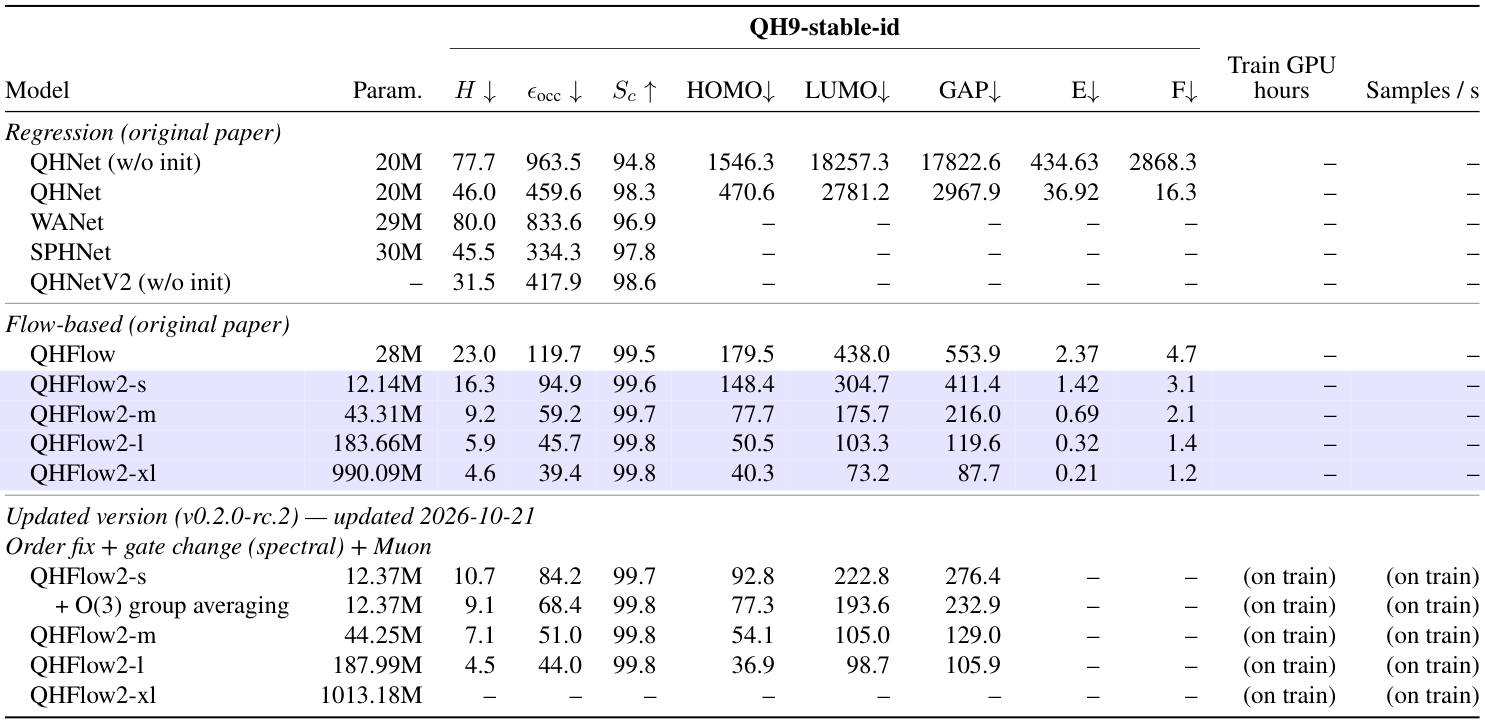
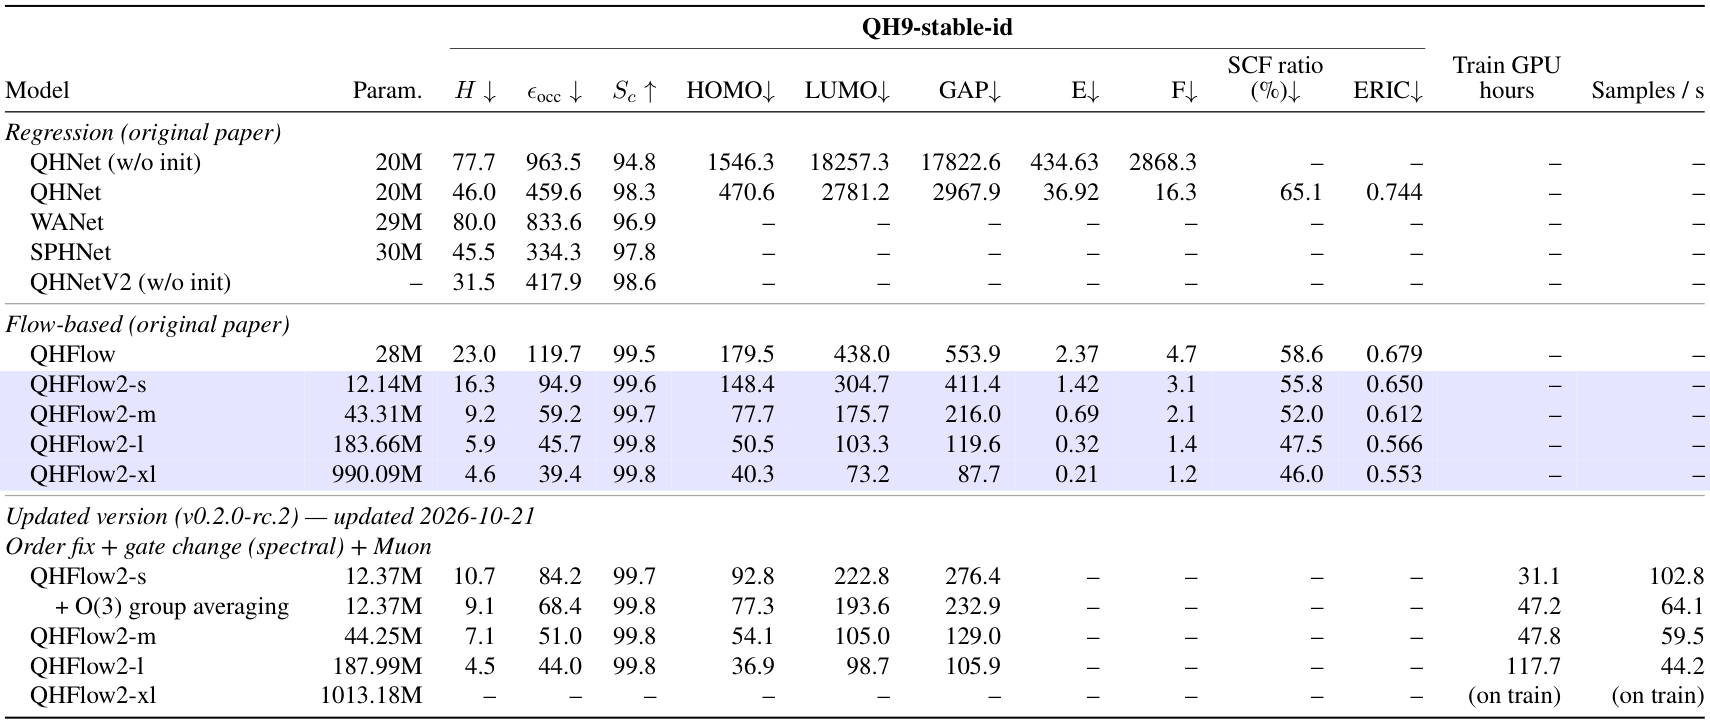
Add traceable SCF ratio and ERIC benchmarks; correct XL training markers

diff --git a/src/reproduction/scf_metrics.py b/src/reproduction/scf_metrics.py
@@ -1,0 +1,94 @@
+"""Recompute SCF cycle ratios and count-based ERIC from traceable paired records.
+
+This aggregates existing results; it does not launch SCF or infer wall-time speedup.
+"""
+import argparse
+from collections import defaultdict
+import csv
+import hashlib
+import json
+from numbers import Integral
+from pathlib import Path
+
+
+def aggregate_cycles(model_cycles, minao_cycles, initialization_cycles=1):
+    """Use a ratio of sums for Figure 4 and a mean of paired ratios for ERIC.
+
+    The +1 convention accounts for an initial Hamiltonian/Fock build. It is
+    explicit, not a measurement of Fock builds or model inference time.
+    """
+    model, minao = list(model_cycles), list(minao_cycles)
+    if not model or len(model) != len(minao):
+        raise ValueError("SCF counts must be nonempty and paired")
+    if any(isinstance(n, bool) or not isinstance(n, Integral) or n < 0
+           for n in [*model, *minao, initialization_cycles]):
+        raise ValueError("SCF counts and initialization overhead must be nonnegative integers")
+    if any(n == 0 for n in minao):
+        raise ValueError("Every paired MinAO cycle count must be positive")
+    ratio = 100 * sum(model) / sum(minao)
+    return dict(
+        count=len(model), model_cycles_total=sum(model), minao_cycles_total=sum(minao),
+        cycle_ratio_percent=ratio, cycle_reduction_percent=100 - ratio,
+        eric=sum((n + initialization_cycles) / b for n, b in zip(model, minao)) / len(model),
+        initialization_cycles=initialization_cycles,
+    )
+
+
+def summarize_recorded(cohort_path, cycles_path):
+    """Require every model to contain exactly the explicit, fully converged cohort."""
+    cohort_path, cycles_path = Path(cohort_path), Path(cycles_path)
+    with cohort_path.open() as f:
+        cohort = list(csv.DictReader(f))
+    identities = {(int(r["prediction_index"]), int(r["dataset_index"])) for r in cohort}
+    if not identities or len(identities) != len(cohort):
+        raise ValueError("Empty or duplicate molecule cohort")
+    for column in ("prediction_index", "dataset_index"):
+        if len({int(r[column]) for r in cohort}) != len(cohort):
+            raise ValueError(f"Duplicate {column}")
+    groups = defaultdict(list)
+    with cycles_path.open() as f:
+        for row in csv.DictReader(f):
+            groups[row["model"]].append(row)
+    if not groups:
+        raise ValueError("No SCF records")
+    models, baseline = {}, {}
+    for label, rows in sorted(groups.items()):
+        observed = {(int(r["prediction_index"]), int(r["dataset_index"])) for r in rows}
+        if len(rows) != len(identities) or observed != identities:
+            raise ValueError(f"{label}: missing, duplicate or mismatched molecules")
+        if any(r[k] != "True" for r in rows for k in ("pred_init_converged", "scratch_converged")):
+            raise ValueError(f"{label}: nonconverged pair; headline metrics withheld")
+        for row in rows:
+            key = int(row["dataset_index"])
+            n = int(row["scratch_cycles"])
+            if key in baseline and baseline[key] != n:
+                raise ValueError(f"{label}: inconsistent shared MinAO baseline")
+            baseline[key] = n
+        models[label] = aggregate_cycles(
+            [int(r["pred_init_cycles"]) for r in rows],
+            [int(r["scratch_cycles"]) for r in rows],
+        )
+    return dict(
+        schema=1, cohort_count=len(identities),
+        sources={p.name: hashlib.sha256(p.read_bytes()).hexdigest() for p in (cohort_path, cycles_path)},
+        cycle_ratio_definition="100 * sum(N_model) / sum(N_MINAO); lower is better",
+        cycle_reduction_definition="100 - cycle_ratio_percent; higher is better",
+        eric_definition="mean((N_model + 1) / N_MINAO); lower is better",
+        eric_scope="Post-hoc count-based metric with one initial Hamiltonian build; no inference timing or directly measured Fock-build counts",
+        provenance_note="Cohort attribution and solver settings are recorded separately in provenance.json",
+        models=models,
+    )
+
+
+def main():
+    parser = argparse.ArgumentParser(description=__doc__)
+    parser.add_argument("--cohort", type=Path, required=True)
+    parser.add_argument("--cycles", type=Path, required=True)
+    parser.add_argument("--output", type=Path, required=True)
+    args = parser.parse_args()
+    result = summarize_recorded(args.cohort, args.cycles)
+    args.output.write_text(json.dumps(result, indent=2, allow_nan=False) + "\n")
+
+
+if __name__ == "__main__":
+    main()

diff --git a/tests/test_reproduction.py b/tests/test_reproduction.py
@@ -14,6 +14,7 @@ from common.metric import cal_orbital_and_energies
 from experiment.train_release import evaluation_indices
 from reproduction.physics import build_mf, one_shot, orbitals, solve_scf
 from reproduction.qh9 import evaluate, prepare, read_cohort, sha, summarize, write_json
+from reproduction.scf_metrics import aggregate_cycles, summarize_recorded
 
 ROOT = Path(__file__).resolve().parents[1]
 
@@ -46,6 +47,44 @@ def test_recovered_cohort_pairs_all_models():
     assert len(cycles) == 1800
     for model in {r["model"] for r in cycles}:
         assert {int(r["dataset_index"]) for r in cycles if r["model"] == model} == {r["dataset_index"] for r in rows}
+
+
+def test_cycle_ratio_and_eric_have_distinct_aggregation_and_overhead():
+    # Unequal denominators distinguish a ratio of sums from a mean of ratios.
+    m = aggregate_cycles([2, 8], [4, 16])
+    assert m["cycle_ratio_percent"] == 50
+    assert m["cycle_reduction_percent"] == 50
+    assert m["eric"] == pytest.approx((3 / 4 + 9 / 16) / 2)
+    rows = [dict(dataset_index=i, status="ok", solves={
+        "minao": dict(converged=True, cycles=b),
+        "predicted": dict(converged=True, cycles=n),
+        "dataset_hamiltonian": dict(converged=True, cycles=1),
+    }) for i, (n, b) in enumerate(zip([2, 8], [4, 16]))]
+    assert summarize(rows, "scf")["eric"] == m["eric"]
+    rows[0]["solves"]["predicted"]["converged"] = False
+    assert "eric" not in summarize(rows, "scf")
+
+
+@pytest.mark.parametrize("model,baseline", [([], []), ([1], [0]), ([1], [2, 3]), ([-1], [2]), ([1.5], [2])])
+def test_cycle_metrics_reject_invalid_pairs(model, baseline):
+    with pytest.raises(ValueError):
+        aggregate_cycles(model, baseline)
+
+
+def test_recorded_scf_summary_matches_source_and_rejects_missing_pairs(tmp_path):
+    cohort = ROOT / "reproduce/scf/recorded-300.csv"
+    cycles = ROOT / "reproduce/scf/recorded-300-cycles.csv"
+    summary = summarize_recorded(cohort, cycles)
+    assert summary == json.loads((ROOT / "reproduce/scf/recorded-300-summary.json").read_text())
+    evidence = json.loads((ROOT / "reproduce/scf/provenance.json").read_text())["evidence"]
+    assert len(summary["models"]) == 6
+    for label, value in summary["models"].items():
+        assert value["count"] == 300
+        assert value["cycle_reduction_percent"] == pytest.approx(evidence[label]["summary"]["cycle_reduction_pct"])
+    incomplete = tmp_path / "incomplete.csv"
+    incomplete.write_text("\n".join(cycles.read_text().splitlines()[:-1]) + "\n")
+    with pytest.raises(ValueError, match="missing, duplicate or mismatched"):
+        summarize_recorded(cohort, incomplete)
 
 
 @pytest.mark.parametrize("mode", ["legacy_fixed", "legacy_adaptive"])

diff --git a/src/reproduction/qh9.py b/src/reproduction/qh9.py
@@ -16,6 +16,7 @@ import numpy as np
 import yaml
 
 from .physics import build_mf, host, one_shot, orbitals, solve_scf
+from .scf_metrics import aggregate_cycles
 
 
 def sha(path):
@@ -198,10 +199,15 @@ def summarize(records, mode):
         summary.update(paired_converged=len(paired), nonconverged=[r["dataset_index"] for r in good if r not in paired])
         # No hidden removal of difficult molecules from a publication number.
         if len(paired) == len(records) and paired:
-            baseline = sum(r["solves"]["minao"]["cycles"] for r in paired)
-            if baseline <= 0:
-                raise ValueError("MinAO cycle count must be positive")
-            summary["cycle_ratio_percent"] = {label: 100 * sum(r["solves"][label]["cycles"] for r in paired) / baseline for label in ("predicted", "dataset_hamiltonian")}
+            metrics = {label: aggregate_cycles(
+                [r["solves"][label]["cycles"] for r in paired],
+                [r["solves"]["minao"]["cycles"] for r in paired],
+                initialization_cycles=1 if label == "predicted" else 0,
+            ) for label in ("predicted", "dataset_hamiltonian")}
+            for field in ("cycle_ratio_percent", "cycle_reduction_percent"):
+                summary[field] = {label: value[field] for label, value in metrics.items()}
+            summary["eric"] = metrics["predicted"]["eric"]
+            summary["eric_definition"] = "mean((N_predicted + 1) / N_MINAO); one initial Hamiltonian build, excluding inference time"
             summary["aggregation"] = "100 * sum(model cycles) / sum(MinAO cycles); no +1 correction"
     elif len(good) == len(records) and good:
         de = np.array([r["predicted"]["energy_Ha"] - r["reference"]["energy_Ha"] for r in good])

diff --git a/reproduce/README.md b/reproduce/README.md
@@ -52,8 +52,9 @@ model definitions when loading checkpoints.
 
 ### Molecule identities and Figure 4 provenance
 
-[recorded-300.csv](scf/recorded-300.csv) gives the **recovered March 2026 SCF
-re-experiment** cohort. Every molecule was matched to the local QH9 raw shard by
+[recorded-300.csv](scf/recorded-300.csv) gives the **original-paper Figure 4
+cohort**. On 2026-10-21 the maintainer confirmed that the recovered March 2026
+SCF records use the same 300 molecules. Every molecule was matched to the local QH9 raw shard by
 atomic numbers and coordinates (all 300 uniquely matched within 2e-6 Å), and
 independently checked against the historical test split. Fields include:
 
@@ -69,16 +70,41 @@ pairs, convergence flags and final energies. Selection was NumPy `default_rng(42
 The explicit CSV is authoritative for replay; do not reinterpret file numbers
 as global dataset indices or use a different split order.
 
-**Original Figure 4 is not yet fully traced.** The original paper's
+**Molecule attribution is confirmed; solver settings are preserved explicitly.** The original paper's
 [Appendix E.4](https://arxiv.org/html/2602.16897v1#A5.SS4) specifies B3LYP/def2-SVP,
 grid 3, `conv_tol=1e-13`, GPU4PySCF and density fitting. Recovered March records
 instead specify B3LYP5, `1e-9`, with no density fitting in their source script.
-Their dates postdate the February paper. They are not relabeled as Figure 4's
-original molecules or settings. [provenance.json](scf/provenance.json) preserves
-source paths, hashes and this unresolved attribution. `paper-protocol.yaml`
+The molecule-list confirmation does not replace those recorded solver settings.
+[provenance.json](scf/provenance.json) preserves source paths, hashes and the
+maintainer's confirmation. `paper-protocol.yaml`
 encodes the documented protocol, while `recorded-protocol.yaml` replays the
 recovered experiment. The old runtime versions were not saved in those results;
 an exact numerical replay is therefore not certified.
+
+### Recompute the table's SCF columns
+
+The six original-model SCF entries use the recovered cycle records on this
+300-molecule cohort. They are separate from the full-test H/orbital/E/F metrics.
+The summary verifies unique identities, complete 300/300 pairing, convergence
+and the shared MinAO baseline; missing or nonconverged pairs cause an error.
+
+```bash
+PYTHONPATH=src python -m reproduction.scf_metrics \
+  --cohort reproduce/scf/recorded-300.csv \
+  --cycles reproduce/scf/recorded-300-cycles.csv \
+  --output /dataset/seongsu/shared-home/workspace/project/MALOQ/outputs/qhflow2-stable-table-comparison-20261021/scf-summary.json
+```
+
+This reproduces [recorded-300-summary.json](scf/recorded-300-summary.json).
+**SCF ratio (%)** is `100 × sum(N_model) / sum(N_MinAO)`; its reduction is
+`100 - ratio`. **ERIC** is the molecule-wise mean of `(N_model + 1) / N_MinAO`.
+The +1 accounts for an initial Hamiltonian/Fock build, following the
+[ERIC convention](https://arxiv.org/html/2604.21657v1#S4), and is independent of
+the number of model ODE steps. ERIC is computed post hoc from saved counts;
+the historical files did not instrument every Fock build or inference cost.
+Neither metric measures wall-time speedup. The README labels the cohort and
+recorded protocol; it does not present these added values as transcribed
+paper-table measurements. New version checkpoints need their own SCF evaluation.
 
 ### Checkpoint to traceable predictions
 
@@ -137,6 +163,8 @@ a new output directory and is reported as a separate runtime.
 - SCF compares MinAO, predicted-H and dataset-H initialization with the same solver settings.
   Cycle ratio is **100 × sum(model cycles) / sum(MinAO cycles)**. Reduction is
   100 minus that ratio; neither quantity includes an extra initial-guess cycle.
+  Predicted-H ERIC separately uses **mean((N_model + 1) / N_MinAO)** and records
+  that initial Hamiltonian build explicitly. Dataset-H is a reference, not an ML ERIC entry.
 - Energy/force evaluation extracts the original v4 algorithm without UMA,
   plotting or mutable shared caches. The default preserves its adaptive
   `1e-8` / `1e-3` overlap-eigenvalue **padding** rule and 0.03 Ha switch. Padding

diff --git a/README.md b/README.md
@@ -133,7 +133,8 @@ Updated **2026-10-21** · Updated version **[v0.2.0-rc.2](docs/releases/v0.2.0-r
 
 - **Results and units.** Original-paper metrics, including QHNetV2, reproduce the supplied paper tables. QHFlow2 parameter counts follow the [checkpoint/config audit](docs/MODEL_CONFIGS.md); updated counts are trainable parameters (XL: initialized model). Updated results use the best validation checkpoint, seed 42, all **13,084** official QH9Stable random-split test molecules and **three ODE steps**. H, occupied orbital energies, HOMO, LUMO and GAP are in μEh; Sc is in percent. Original E/F values retain their source units; updated E/F and other unavailable values are shown as dashes.
 - **Model update.** Order fix + **gate change (spectral)** + Muon at **1e-3**; norm, embedding and other unsupported parameters use AdamW at **1e-4**. Updated S/M also enable the Hamiltonian-input path. **+ O(3) group averaging** denotes a separately trained QHFlow2-O(3)-s, using shared-weight identity/inversion averaging. These results combine architecture and training changes and are not a single-change ablation.
-- **Training cost and speed.** Figures are temporarily withheld; `(on train)` is a provisional reporting label in these columns. S/O(3)-S/M/L training is complete, and the recorded measurements are retained for a later update.
+- **Training cost and speed.** Train GPU hours and Samples / s show recorded measurements for completed S/O(3)-S/M/L runs; only XL displays `(on train)`. GPU hours sum retained training segments, including validation/checkpointing within those segments, and exclude startup, queue/restart gaps, discarded attempts and final testing. Samples / s is aggregate training throughput in the final execution configuration: one GPU for S/O(3)-S/M and two GPUs for L; each O(3) molecule is counted once.
+- **SCF ratio and ERIC.** SCF ratio (%) is `100 × sum(N_model) / sum(N_MinAO)` (lower is better; MinAO = 100%). ERIC is `mean((N_model + 1) / N_MinAO)`, including one initial Hamiltonian build under the [ERIC accounting convention](https://arxiv.org/html/2604.21657v1#S4); it is not a wall-time speedup. The six available original-model entries are recomputed from the [300-molecule paired records](reproduce/scf/recorded-300-cycles.csv), on the same cohort as [original-paper Figure 4](https://arxiv.org/html/2602.16897v1#S4.F4), confirmed by the maintainer on 2026-10-21. ERIC is a new post-hoc calculation. The recovered March solver settings are retained in [provenance](reproduce/scf/provenance.json), including differences from Appendix E.4; these added columns are not transcribed paper-table values. Updated-model SCF metrics have not been evaluated and remain dashes. See the [reproducible summary](reproduce/scf/recorded-300-summary.json).
 - **Checkpoint status.** S/O(3)-S/M/L each completed 260,000 steps; their packaged weights come from validation-selected step 258,409. XL is still training, with benchmark metrics and its checkpoint pending.
 
 ### Updated checkpoints
@@ -162,10 +163,11 @@ The five release presets match the recorded final S, O(3)-S, M, L and XL trainin
 Muon starts at 1e-3 and AdamW at 1e-4; global batch size is 32.
 
 For **Relative reduction of SCF cycles on QH9**, the
-[molecule list](reproduce/scf/recorded-300.csv) links all 300 recovered March 2026
-re-experiment samples to original QH9 indices and molecular formulas. The
-[provenance note](reproduce/scf/provenance.json) distinguishes these verified records
-from Figure 4 of the original paper, whose exact source cohort remains unverified.
+[molecule list](reproduce/scf/recorded-300.csv) links the 300 original-paper Figure 4
+molecules to original QH9 indices and molecular formulas. The maintainer confirmed
+on 2026-10-21 that the recovered March 2026 records use this same molecule list.
+The [provenance note](reproduce/scf/provenance.json) records that confirmation,
+geometry matches and the recovered solver settings.
 The [paired cycle records](reproduce/scf/recorded-300-cycles.csv) cover six models.
 
 DFT evaluation records explicit functional, basis, overlap policy, grid/gradient options,

diff --git a/CHANGELOG.md b/CHANGELOG.md
@@ -11,13 +11,16 @@ source and configuration files; `model.version` selects an architecture.
   and a training entrypoint with evaluation shards that do not repeat molecules.
   Move other training/evaluation experiments into an indexed, hashed archive.
 - Recover 300 molecular identities and 1,800 paired SCF cycle records from the
-  March 2026 re-experiment. Explicitly keep original Figure 4 attribution open:
-  the recovered run's settings differ from the February paper's description.
+  March 2026 records. The maintainer confirmed on 2026-10-21 that these are the
+  original Figure 4 molecules; preserve the recovered solver settings separately.
+- Add SCF cycle ratio and post-hoc ERIC columns, with reproducible aggregation
+  of all 300 paired molecules for six original models. Updated models retain
+  dashes until evaluated; incomplete or nonconverged cohorts have no headline mean.
 - Add checkpoint-to-NPZ inference and reproducible SCF/one-shot energy-force
   evaluation with explicit units, solver policies, hashes and failure records.
 - Add the README benchmark image, update date, original-paper references,
-  spectral gate/O(3) labels, and reserved training GPU hours/samples/s columns
-  marked `(on train)` pending a later reporting update. Recorded timings are retained.
+  spectral gate/O(3) labels, and measured training GPU hours/samples/s for
+  completed S/O(3)-S/M/L runs. Only XL is marked `(on train)`.
 - Prepare exact best-validation inference exports for S, O(3)-S, M and L
   with configs, metrics, provenance and checksums; XL is still training.
   See the [draft checkpoint update](docs/releases/v0.2.0-rc.2-checkpoints.md).
